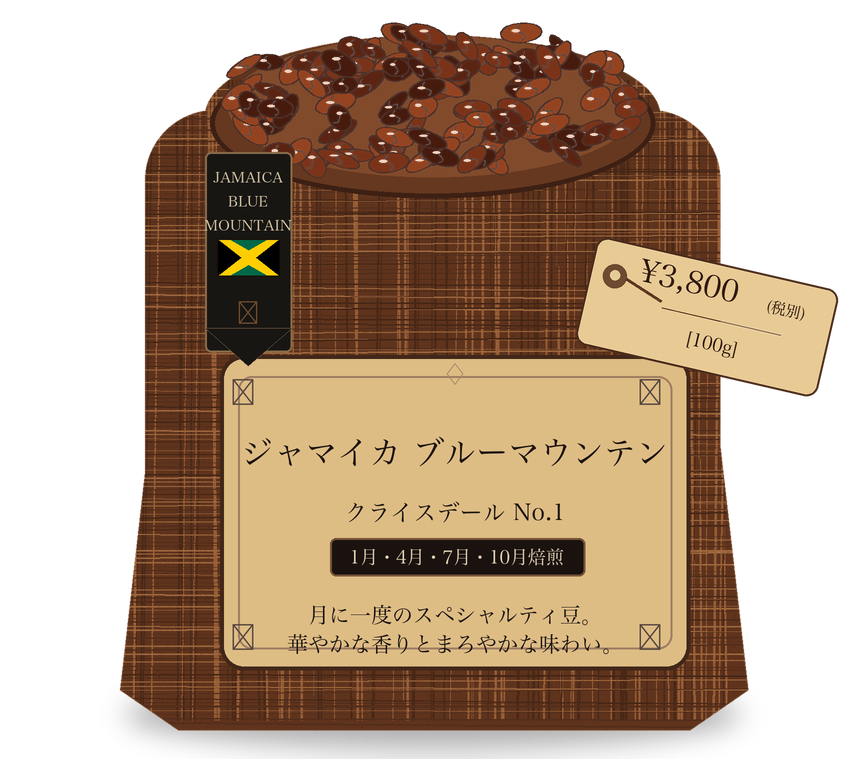
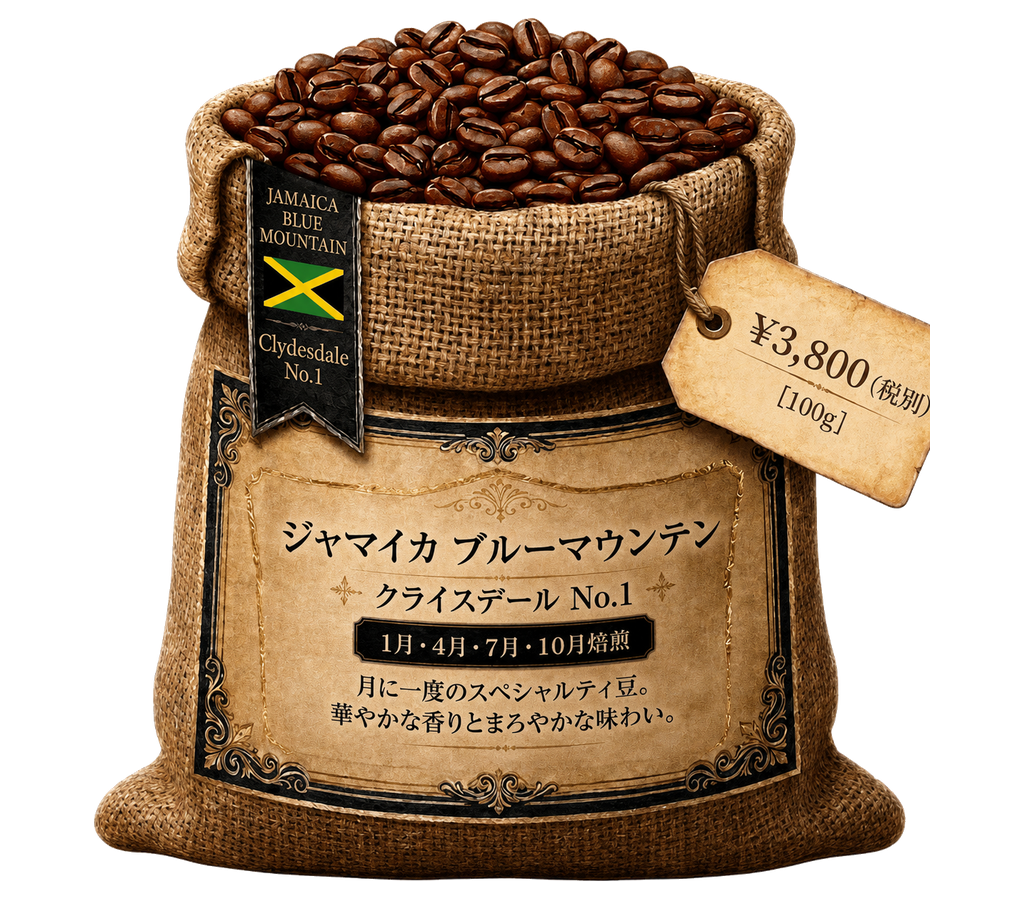
Replace specialty coffee bag images

diff --git a/index.html b/index.html
@@ -820,7 +820,7 @@
     .special-coffee-card-img {
       position: relative;
       width: 100%;
-      aspect-ratio: 866 / 759;
+      aspect-ratio: 1024 / 899;
       overflow: hidden;
       background: transparent;
       filter: drop-shadow(0 22px 28px rgba(0, 0, 0, 0.38));
